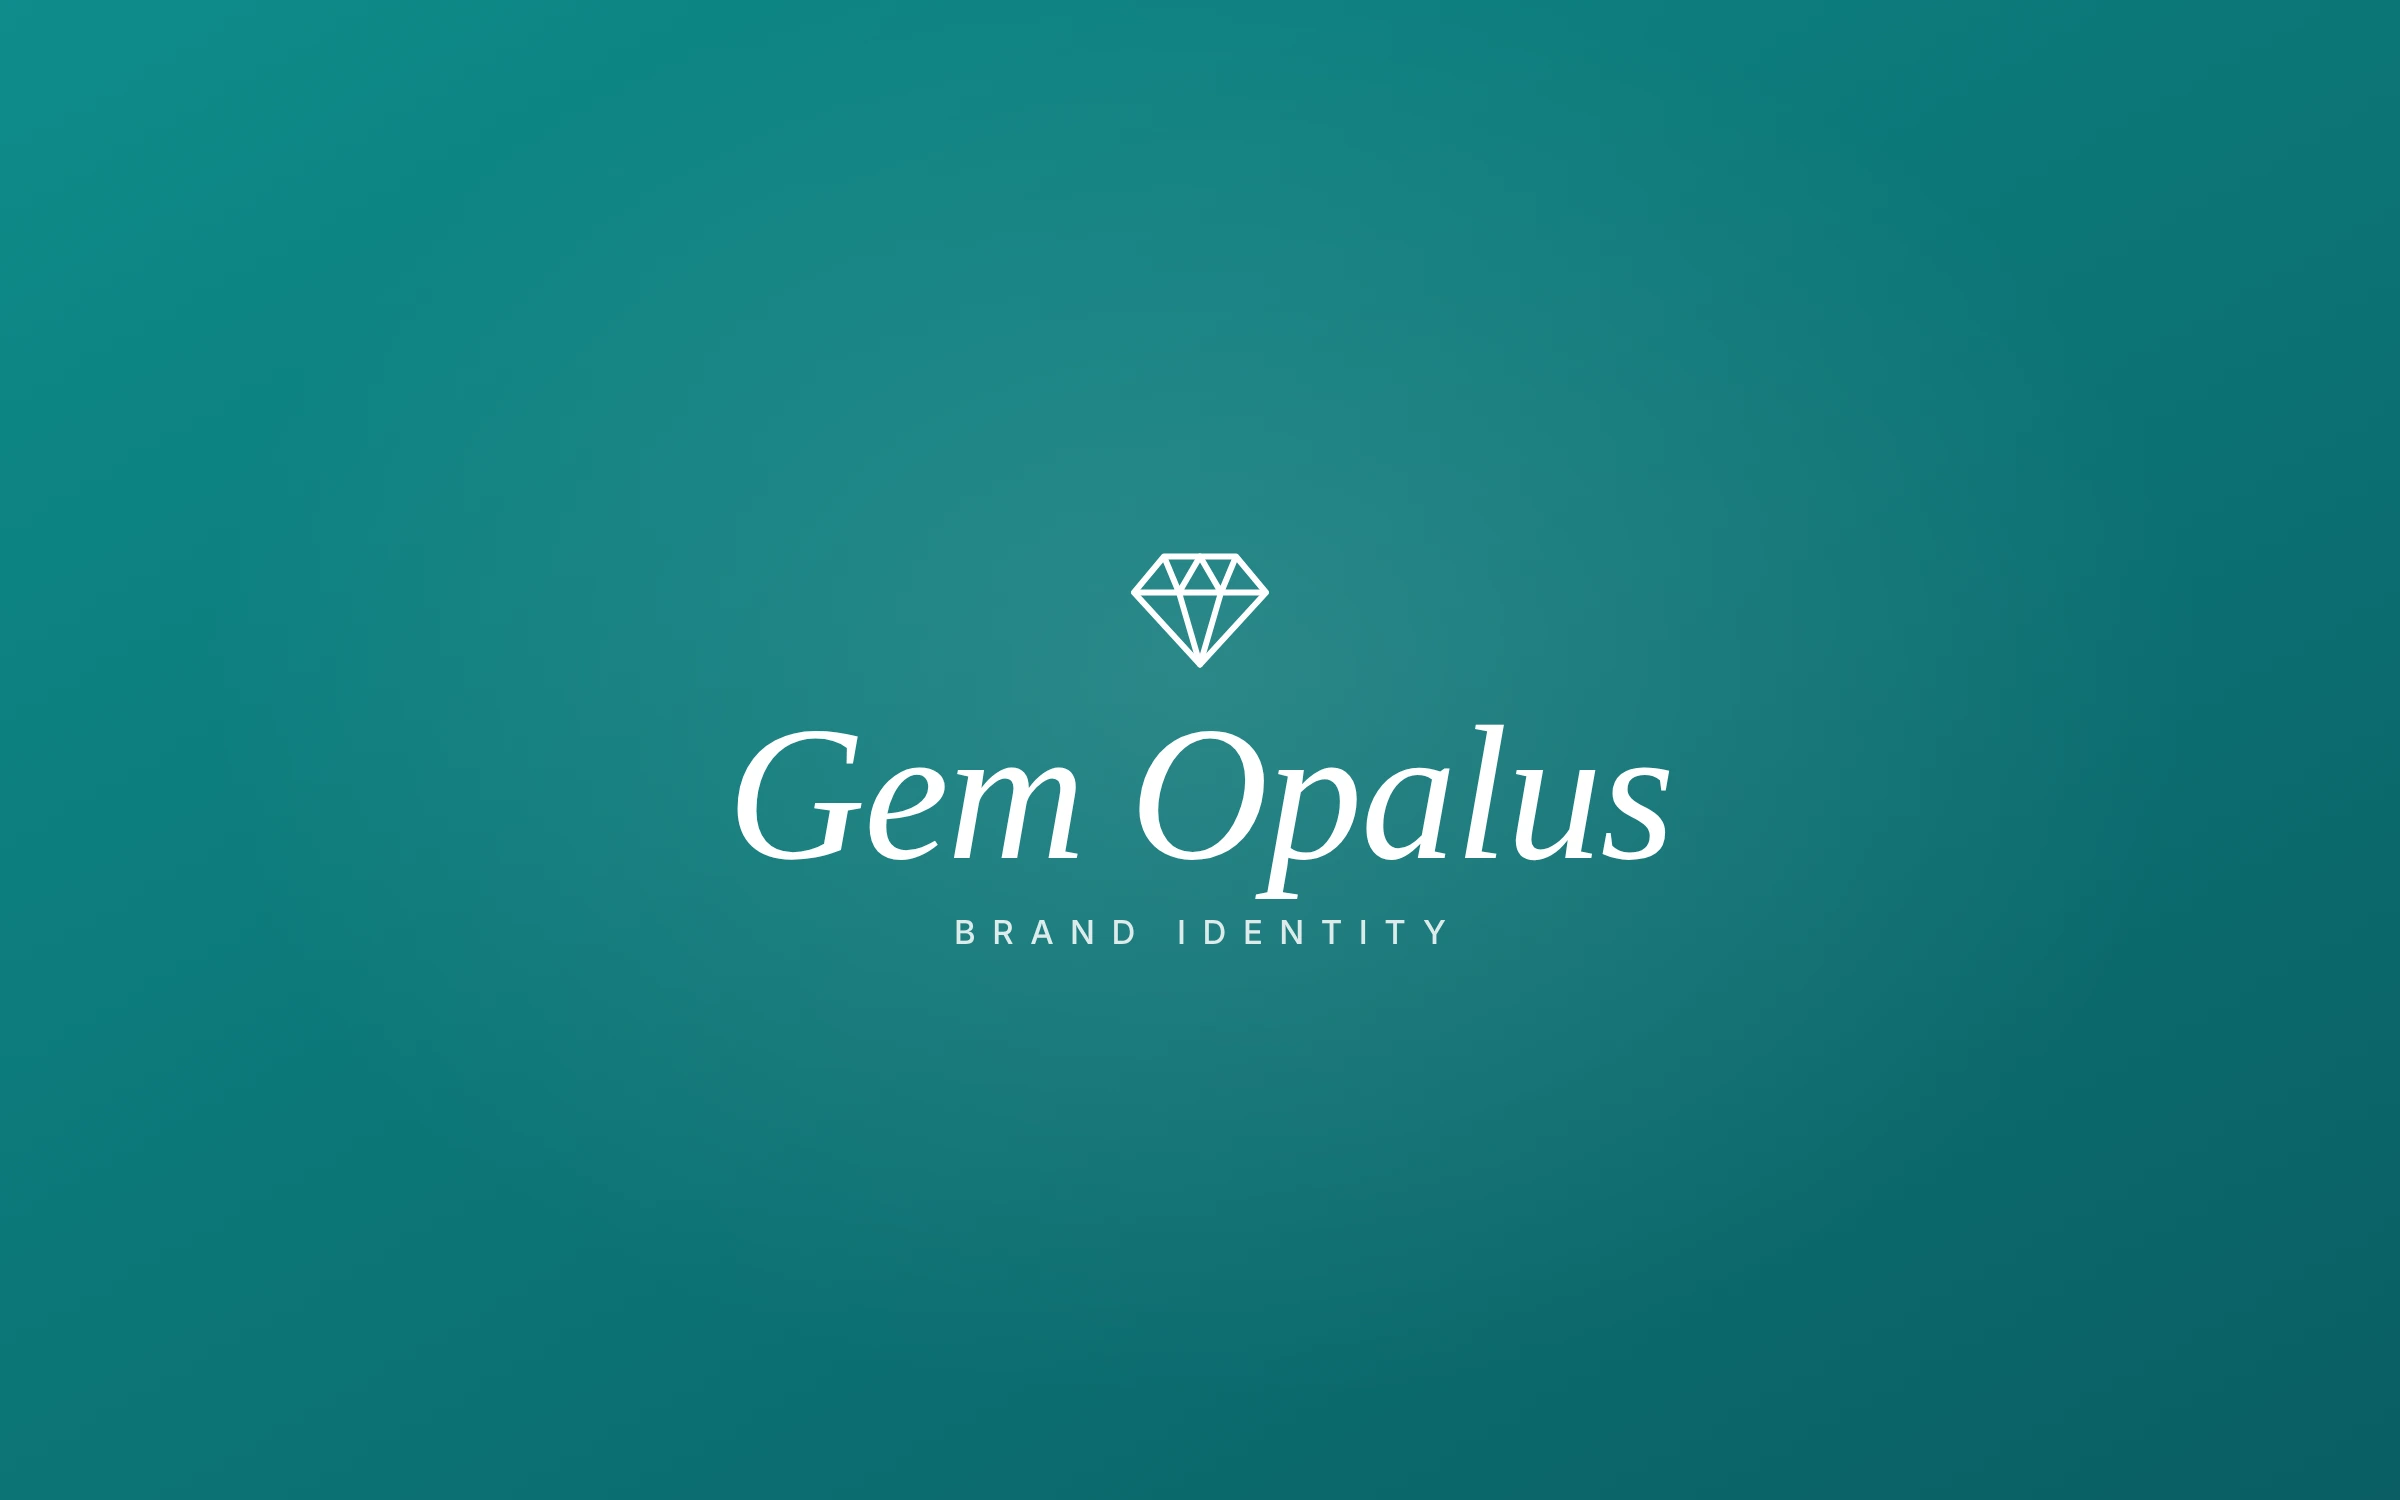
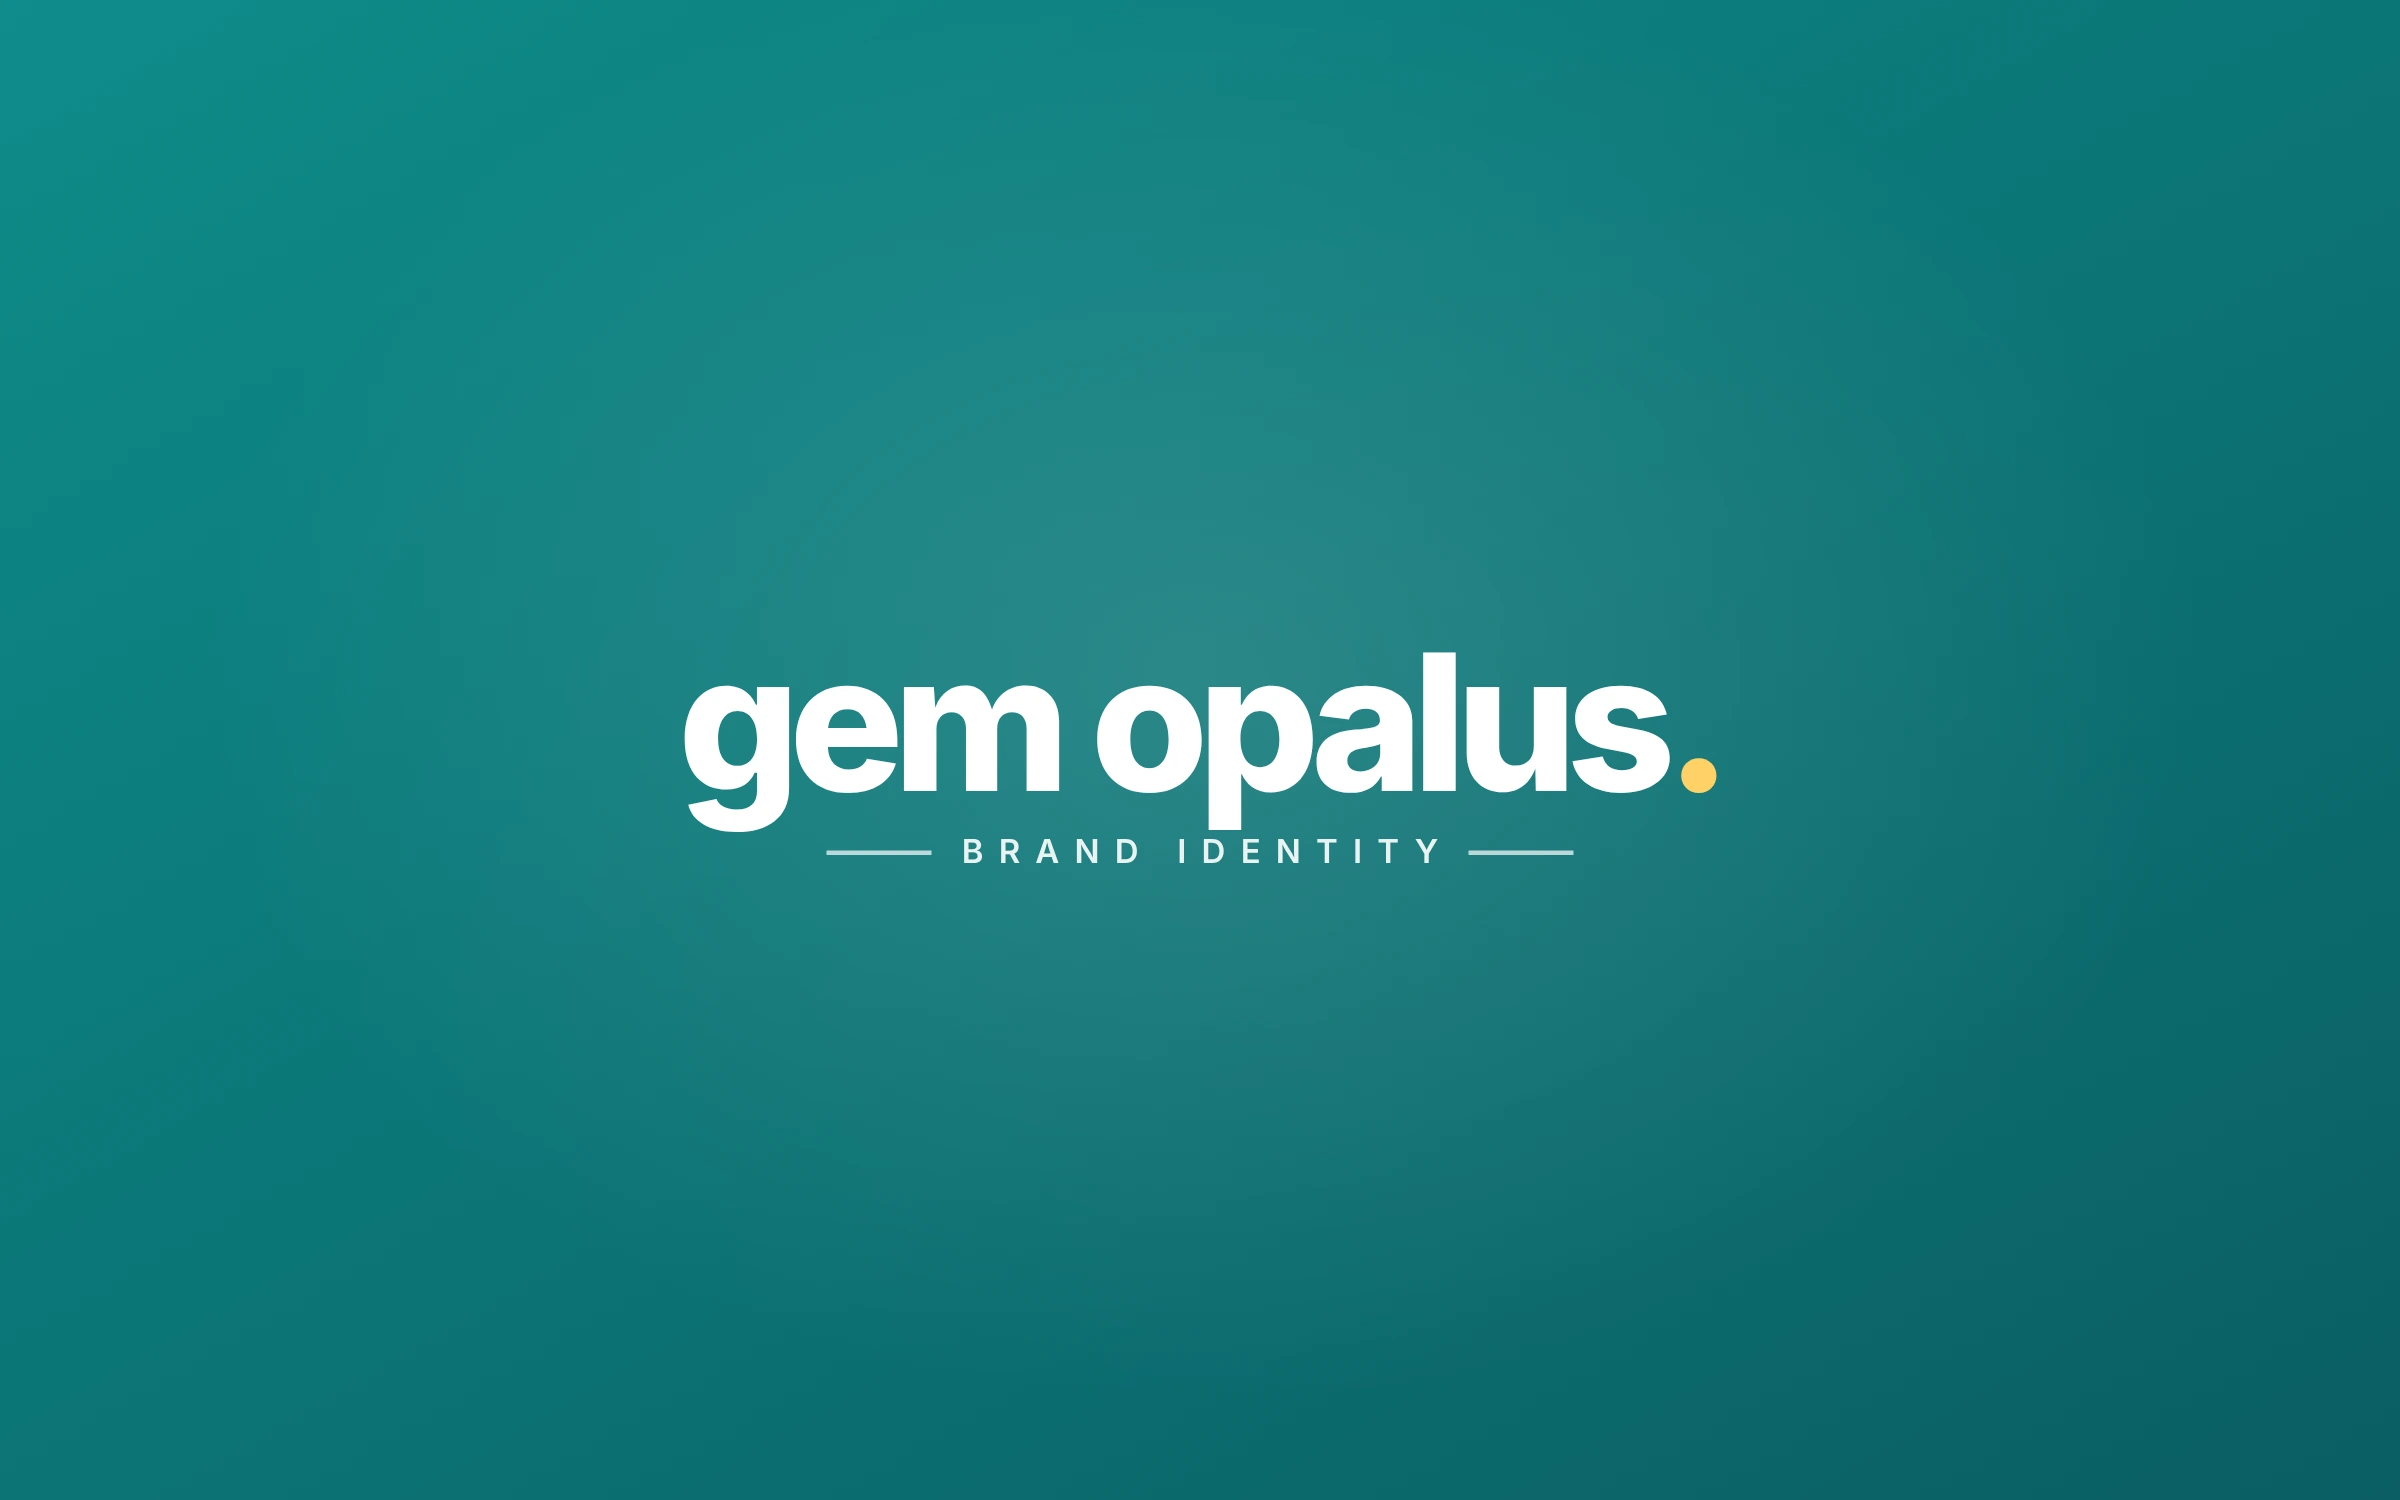
Set every carousel tile in the Amanoya lockup
Heavy lowercase Inter wordmark, accent full stop and a tracked-caps line
under it, on each project's brand colour.

Claude-Session: https://claude.ai/code/session_013kHzzCWXMWhF3Ywo9xpBqc

Changed region(s): [[0.2812, 0.368, 0.7188, 0.5827], [0.5, 0.6133, 0.5625, 0.644], [0.4062, 0.6133, 0.4688, 0.644]]

diff --git a/ASSETS.md b/ASSETS.md
@@ -69,7 +69,7 @@ rest are covers only, and gain a page if and when they gain a case study.
 | `public/assets/images/projects/wordpress-japan/*.webp` | 1440 or 375 wide (clinic), 510 wide (FotoLib, enlarged from a thumbnail) | — | Case study: frames of the clinic's Figma file, cut at section edges, and crops of FotoLib's |
 | `public/assets/images/projects/nft-projects/cover.webp` | 1600 × 1000 | 16:10 | Home + case study. **Placeholder**: the Dino The Diamond artwork on its own flat grey. Replace with the real cover |
 | `public/assets/images/projects/nft-projects/inspiration.webp` | 1024 × 1024 | 1:1 | Case study. The image the collection was based on |
-| `public/assets/images/projects/<slug>/tile.webp` | 1600 × 1000 (stored 2400 × 1500) | 16:10 | Home carousel only. Brand-coloured placeholder with the project's mark or name in white; logo kept inside the central 4:5. Set by `tile` on the record in `src/data/projects.js` — delete that line to show the project's `cover` again |
+| `public/assets/images/projects/<slug>/tile.webp` | 1600 × 1000 (stored 2400 × 1500) | 16:10 | Home carousel only. Brand-coloured placeholder with the project's name in white, set in the Amanoya lockup (heavy lowercase Inter, accent full stop, tracked-caps line); logo kept inside the central 4:5. Set by `tile` on the record in `src/data/projects.js` — delete that line to show the project's `cover` again |
 | `public/assets/images/projects/ai-video/cover.*` | 1600 × 1000 | 16:10 | Home. Not used while `cover` on the record points at Cloudinary |
 | Video posters (optional) | 1600 × 900 | 16:9 | AI video case study. YouTube supplies its own still, so a poster is only needed for Vimeo or a direct file; set `poster` on the video's entry in `src/data/projects.js` |
 
